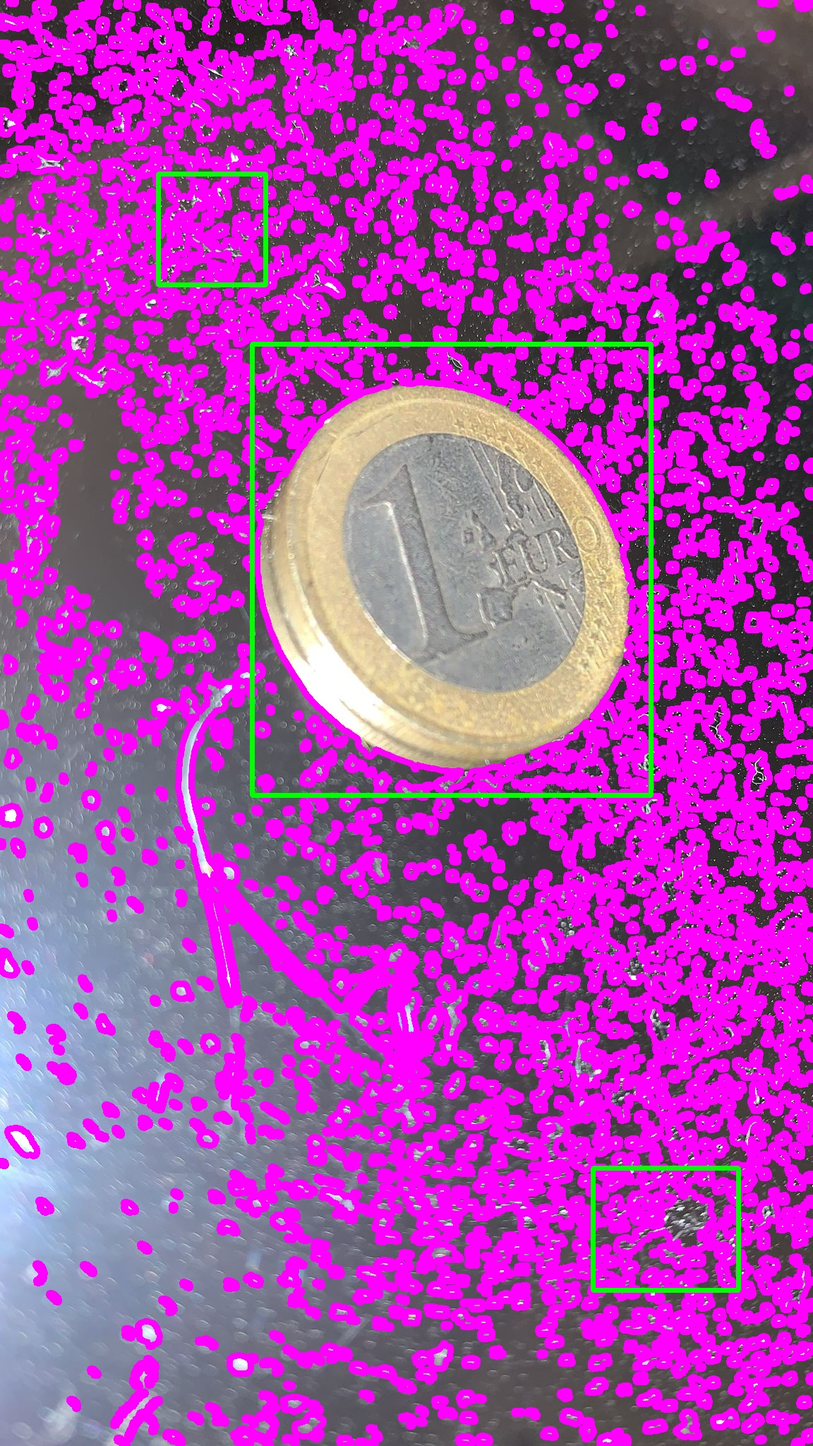
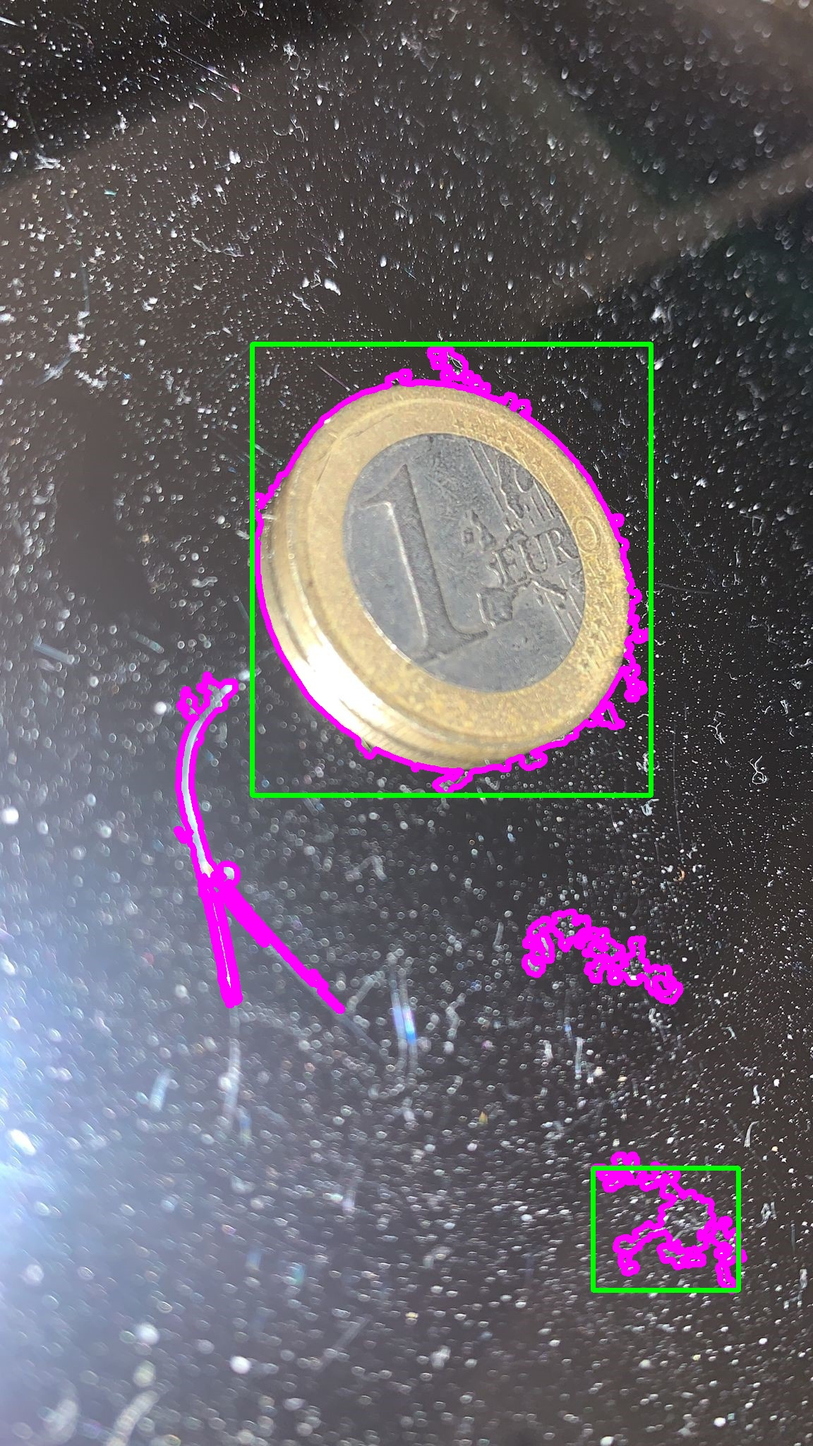
amélioration

diff --git a/src/first_process/test3.py b/src/first_process/test3.py
@@ -2,10 +2,9 @@ import cv2
 import numpy as np
 
 ratio = 0.5
-decal = 0
 
 # Vérifie si un carré est dans un autre, ne le prend pas en compte
-def checkPos(t1):
+def checkSquareIn(t1):
 
     t2 = []
 
@@ -20,10 +19,10 @@ def checkPos(t1):
             y2 =t1[d][1]     
             x2f =t1[d][2]       
             y2f = t1[d][3]
-            if x1>(x2-decal) and x1<(x2f+decal): # x du premier > au xdu second
-                if x1f > (x2-decal) and x1f<(x2f+decal): # x final du premier < au x final du second
-                    if y1>(y2-decal) and y1<(y2f+decal):
-                        if y1f>(y2-decal) and y1f<(y2f+decal):
+            if x1>x2 and x1<x2f: # x du premier > au xdu second
+                if x1f > x2 and x1f<x2f: # x final du premier < au x final du second
+                    if y1>y2 and y1<y2f:
+                        if y1f>y2 and y1f<y2f:
                             booleen = False
                             
 
@@ -34,19 +33,140 @@ def checkPos(t1):
                 t2.remove(t1[c])
     return t2
 
+# Vérifie si deux carrés sont l'un sur l'autre, si plus de 50%
+# est partagé, les réunis, sinon ne fais rien 
+def addSquare(t1):
+    t2 = []
+    t4 = []
+    tcopy = []
+    for l in range(0,len(t1)) :
+        tcopy.append(t1[l])
+
+    doisRefaire = True
+
+    while(doisRefaire):
+        doisRefaire = False
+        t2 = []
+        for c in range(0,len(tcopy)) :
+            if doisRefaire:
+                break
+            booleen = True
+            y1 =tcopy[c][1]
+            x1 = tcopy[c][0]
+            y1f =tcopy[c][3]
+            x1f =tcopy[c][2]
+            estModifie = False
+            lenn = len(tcopy)
+            for d in range(0,lenn) :
+
+                x2 = tcopy[d][0]
+                y2 =tcopy[d][1]     
+                x2f =tcopy[d][2]       
+                y2f = tcopy[d][3]
+                
+                if x2>x1 and x2<x1f:
+                    if y2>y1  and y2<y1f:
+                        if x2f>x1f:
+                            longueur = x1f - x2
+                        else:
+                            longueur = x2f -x2     
+
+                        if y2f>y1:
+                            hauteur = y1f-y2
+                        else:
+                            hauteur = y2f-y2
+
+                        aire = hauteur * longueur
+                        aire1 = (x1f-x1)*(y1f-y1)
+                        aire2 = (x2f-x2)*(y2f-y2)
+                        ratio1 = aire/aire1
+                        ratio2 = aire/aire2
+                        if ratio1>=0.5 or ratio2 >= 0.5:
+                            newSquare = CombineSquare(tcopy[c],tcopy[d])
+                            #t2.append(newSquare)
+                            estModifie = True
+                            #del t1[d]
+                            #del t1[c]
+                            #tcopy.remove(tcopy[d])
+                            #tcopy.remove(tcopy[c])
+                            print(c>=len(tcopy))
+                            tcopy.pop(d)
+                            if(d<c):
+                                ind = c-1
+                            else:
+                                ind = c
+                            tcopy.pop(ind)
+                            tcopy.append(newSquare)
+                            c = lenn+1
+                            d = lenn+1
+                            doisRefaire = True
+                            break
+                            #t4.append(t1[c])
+                             #t4.append(t1[d])
+                            #t1.pop(d)
+                            #t1.pop(c)
+
+        
+            if not(estModifie):
+                t2.append(tcopy[c])
+
+    return t2
+
+def InTab(t1,element):
+    for i in range(0,len(t1)):
+        if(element[0] ==  t1[i][0]):
+            if (element[1] ==  t1[i][1]):
+                if (element[2] ==  t1[i][2]):
+                    if (element[3] ==  t1[i][3]):
+                        return True
+    return False
+
+    
+
+def CombineSquare(square1,square2):
+    x1 = square1[0]
+    x1f = square1[2]
+    y1 = square1[1]
+    y1f = square1[3]
+
+    x2 = square2[0]
+    x2f = square2[2]
+    y2 = square2[1]
+    y2f = square2[3]
+
+    if x1<x2 :
+        x = x1
+    else:
+        x = x2
+    if x1f>x2f :
+        xf = x1f
+    else:
+        xf = x2f
+    if y1<y2 :
+        y = y1
+    else:
+        y = y2
+    if y1f>y2f :
+        yf = y1f
+    else:
+        yf = y2f
+
+    return (x,y,xf,yf)
+    
+    
             
 def getContours(img, imgContour):
     contours, hierarchy = cv2.findContours(img, cv2.RETR_EXTERNAL, cv2.CHAIN_APPROX_NONE)
-    cv2.drawContours(imgContour, contours, -1, (255, 0, 255), 7)
+    #cv2.drawContours(imgContour, contours, -1, (255, 0, 255), 7)
     t = []
     ind = 0
     for cnt in contours:
         area = cv2.contourArea(cnt)
-        if area > 7000:
+        if area > 8000: #7000
             cv2.drawContours(imgContour, cnt, -1, (255, 0, 255), 7)
             peri = cv2.arcLength(cnt, True)
             approx = cv2.approxPolyDP(cnt, 0.02 * peri, True)
-            print(str(len(approx)) + " " + str(area))
+            #print(str(len(approx)) + " " + str(area))
             x, y, w, h = cv2.boundingRect(approx)
 
             plusGrand = w
@@ -58,7 +178,8 @@ def getContours(img, imgContour):
                 t.append((x,y,x + w, y + h))
             ind+=1
 
-    t3 = checkPos(t)
+    t3 = checkSquareIn(t)
+    t3 = addSquare(t3)
     for c in range(len(t3)):
         cv2.rectangle(imgContour, (t3[c][0],t3[c][1]),(t3[c][2],t3[c][3]) , (0, 255, 0), 5)
         #cv2.rectangle(imgContour, (x, y), (x + w, y + h), (0, 255, 0), 5)
@@ -69,7 +190,7 @@ def check_empty_img(arg):
     img = cv2.imread(r"D:\COur\img_proj\\" + str(arg) + ".jpeg")
     if img is None:
         img = cv2.imread(r"D:\COur\img_proj\\" + str(arg) + ".jpg")
-    elif img is None:
+    if img is None:
         img = cv2.imread(r"D:\COur\img_proj\\" + str(arg) + ".png")
     return img
 

diff --git a/src/first_process/testTableau.py b/src/first_process/testTableau.py
@@ -1,0 +1,8 @@
+import cv2
+import numpy as np
+
+t1 = []
+
+t1.append((1,2,3,4))
+
+print(t1.pop(0))
